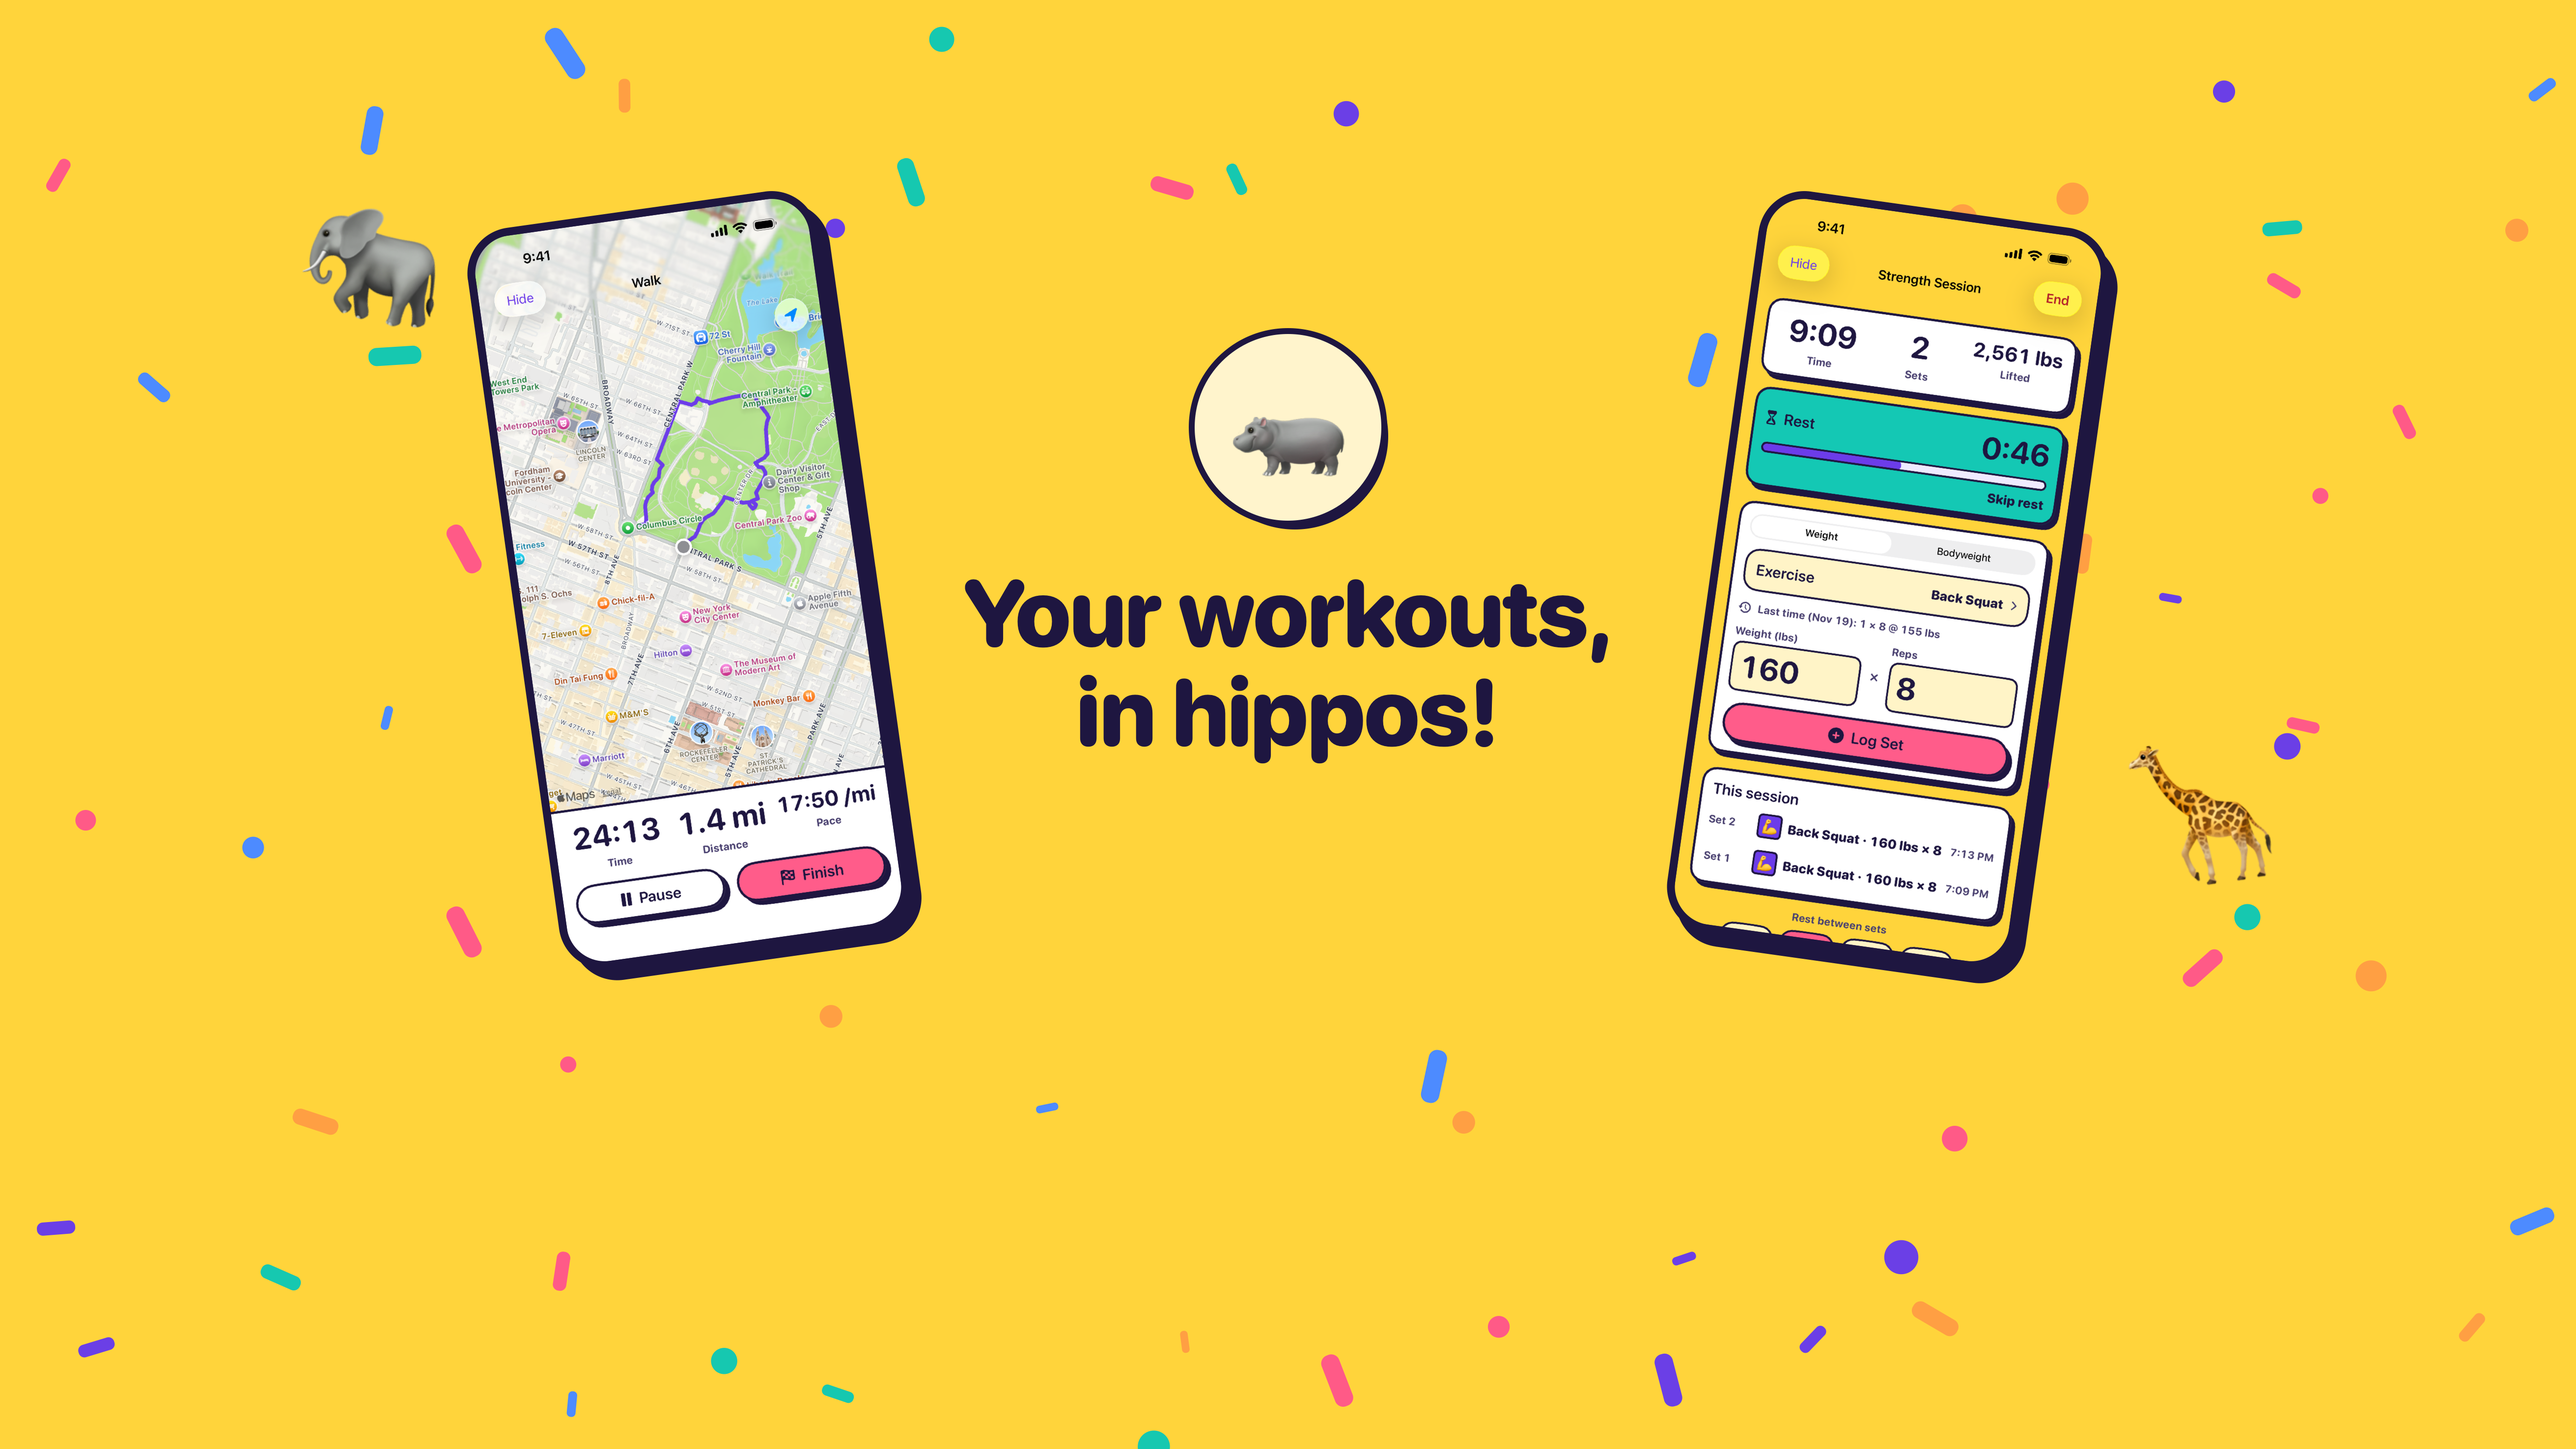
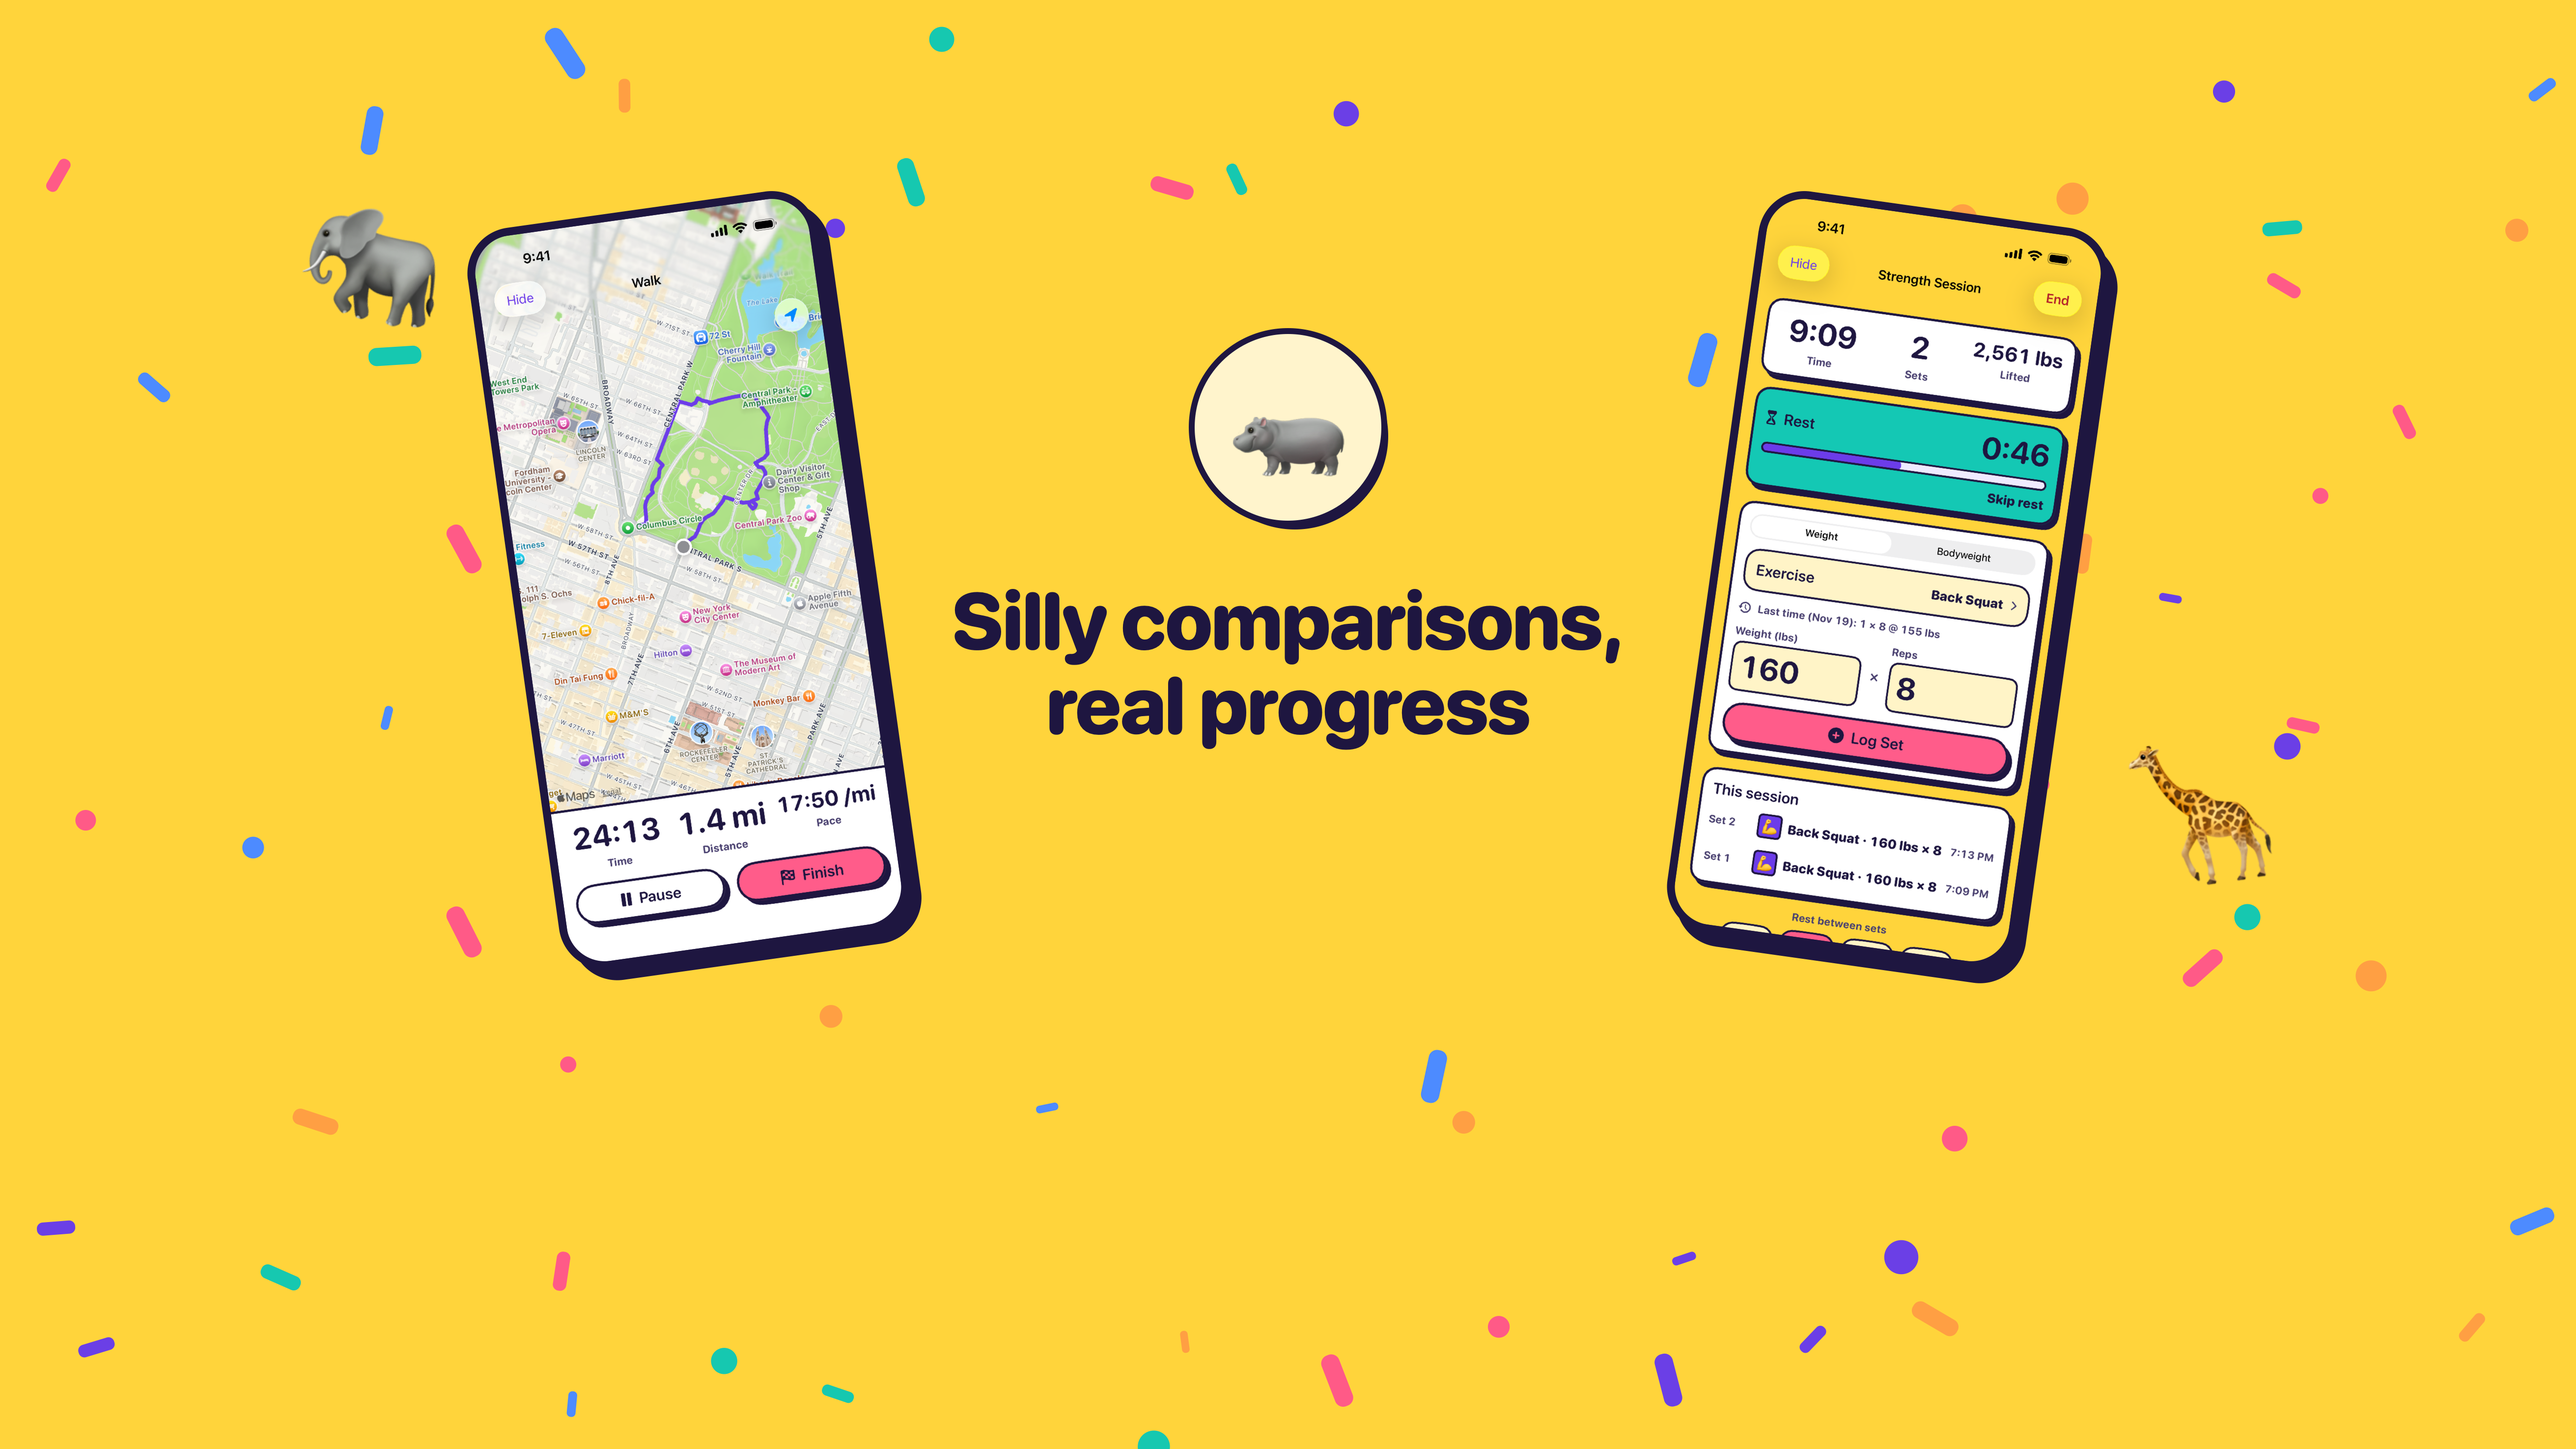
App Store header: 'Silly comparisons, real progress' (the hippos line is already screenshot 1 and the subtitle)

Changed region(s): [[0.373, 0.4054, 0.6527, 0.5302]]

diff --git a/scripts/screenshots/header.swift b/scripts/screenshots/header.swift
@@ -1,4 +1,5 @@
-// header.swift <out.png> <W> <H> <safeX> <safeY> <safeW> <safeH> <leftShot.png> <rightShot.png> [--guides]
+// header.swift <out.png> <W> <H> <safeX> <safeY> <safeW> <safeH> <leftShot.png> <rightShot.png> <phrase> [--guides]
+// `\n` in the phrase forces a line break.
 // App Store product page header / universal asset: copy + hero emoji in the art safe area, tilted
 // screenshots, animals and confetti in the auxiliary area. Coordinates are top-left based (Apple's templates).
 import AppKit
@@ -81,12 +82,24 @@ ctx.setFillColor(NSColor(srgbRed: 1, green: 0xF4/255, blue: 0xCC/255, alpha: 1).
 ctx.fillEllipse(in: CGRect(x: badgeC.x - badgeR, y: badgeC.y - badgeR, width: 2*badgeR, height: 2*badgeR))
 emoji("🦛", size: 230 * s, center: CGPoint(x: badgeC.x, y: badgeC.y - 6 * s))
 
-var font = NSFont.systemFont(ofSize: 190 * s, weight: .heavy)
-font = NSFont(descriptor: font.fontDescriptor.withDesign(.rounded)!, size: 190 * s)!
-let para = NSMutableParagraphStyle(); para.alignment = .center; para.lineHeightMultiple = 0.9
-let text = NSAttributedString(string: "Your workouts,\nin hippos!", attributes: [.font: font, .foregroundColor: ink, .paragraphStyle: para, .kern: -2 * s])
+// Headline: the largest size up to 190 (universal scale) where every line fits the safe area unwrapped.
+let phrase = a[10].replacingOccurrences(of: "\\n", with: "\n")
 let textBox = CGRect(x: safe.minX, y: safe.minY, width: safe.width, height: badgeC.y - badgeR - 30 * s - safe.minY)
-let ts = text.boundingRect(with: textBox.size, options: [.usesLineFragmentOrigin]).size
+let para = NSMutableParagraphStyle(); para.alignment = .center; para.lineHeightMultiple = 0.9
+var size = 190 * s
+var text = NSAttributedString()
+repeat {
+    let base = NSFont.systemFont(ofSize: size, weight: .heavy)
+    let font = NSFont(descriptor: base.fontDescriptor.withDesign(.rounded)!, size: size)!
+    text = NSAttributedString(string: phrase, attributes: [.font: font, .foregroundColor: ink, .paragraphStyle: para, .kern: -2 * s])
+    let widest = phrase.components(separatedBy: "\n").map {
+        NSAttributedString(string: $0, attributes: [.font: font, .kern: -2 * s]).size().width
+    }.max() ?? 0
+    let tall = text.boundingRect(with: CGSize(width: 10_000, height: 10_000), options: [.usesLineFragmentOrigin]).height
+    if widest <= textBox.width - 20 * s && tall <= textBox.height { break }
+    size -= 4 * s
+} while size > 60 * s
+let ts = text.boundingRect(with: CGSize(width: textBox.width, height: 10_000), options: [.usesLineFragmentOrigin]).size
 text.draw(with: CGRect(x: textBox.minX, y: textBox.midY - ts.height/2, width: textBox.width, height: ts.height), options: [.usesLineFragmentOrigin])
 
 if guides {

diff --git a/docs/appstore/header/README.md b/docs/appstore/header/README.md
@@ -9,10 +9,12 @@ Specs from Apple's "Creative assets specifications" page (checked 2026-11-27): P
 safe area (the rest may be cropped); one short phrase at most; no pricing, URLs, ©, awards or other platforms.
 English only, so localize the phrase if more languages are added later.
 
-Design: "Your workouts, in hippos!" with the hippo badge in the safe area; the walk and strength screenshots,
+Design: "Silly comparisons, real progress" with the hippo badge in the safe area. It's not "Your workouts, in
+hippos" because that's already the first screenshot's caption, and the subtitle is "Workouts measured in hippos".
+Also in the image: the walk and strength screenshots,
 an elephant, a giraffe and confetti in the auxiliary area. Made with `scripts/screenshots/header.swift`:
 
     swiftc -O header.swift -o header
-    header <out.png> <W> <H> <safeX> <safeY> <safeW> <safeH> <left.png> <right.png> [--guides]
+    header <out.png> <W> <H> <safeX> <safeY> <safeW> <safeH> <left.png> <right.png> '<phrase>' [--guides]
 
-`--guides` draws the safe area in red, for checking only. Use App Store Connect's Preview button to check the crops.
+`\n` in the phrase sets the line break; the text shrinks to fit the safe area. `--guides` draws the safe area in red, for checking only. Use App Store Connect's Preview button to check the crops.
